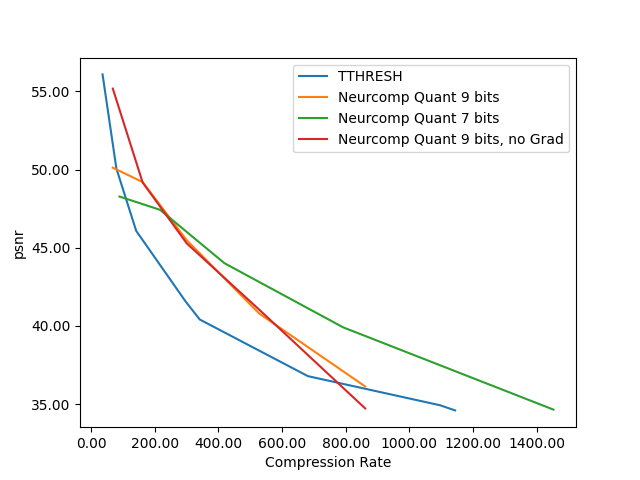
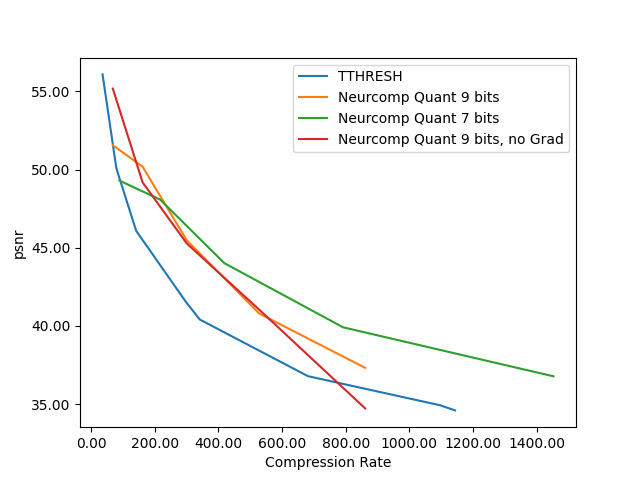
Added correct tthresh comparison plots

diff --git a/visualization/generatecomprPlot.py b/visualization/generatecomprPlot.py
@@ -93,6 +93,39 @@ def QuantVsOrigExperiment():
     filepath = 'plots/'+'test_experiment_QuantizationGain.png'
     plt.savefig(filepath)
 
+def OrigVSSelfImplmentation():
+    Test_OrigPSNR = [47.1365, 39.9855, 33.5493, 30.7486, 28.6885]
+    Test_OrigRMSE = [0.0088, 0.0200, 0.0420, 0.0580, 0.0736]
+    Test_OrigCompRate = [51.11390449650911, 101.7516355633272, 200.52284475075754, 314.8320895522388, 430.2651708312086]
+
+    Test_OrigQuantPSNR = [46.8316, 39.9078, 33.5359, 30.7470, 28.6870]
+    Test_OrigQuantRMSE = [0.0091, 0.0202, 0.0421, 0.0580, 0.0736]
+    Test_OrigQuantCompRate = [126.4459326558329, 196.49224947238193, 272.3586256985494, 319.03580290677064, 347.39198682483726]
+
+    mhd_p_OrigPSNR = [50.3264, 45.6230, 40.9, 37.0811]
+    mhd_p_OrigRMSE = [0.0061, 0.0105, 0.018, 0.0280]
+    mhd_p_OrigCompRate = [50.15024165693788, 100.28107215646905, 201.45275729264114, 411.1016760053553]
+
+    mhd_p_OrigQuantPSNR = [50.1650, 45.5244, 40.8, 37.0627]
+    mhd_p_OrigQuantRMSE = [0.0062, 0.0106, 0.019, 0.0280]
+    mhd_p_OrigQuantompRate = [162.12500091664407, 300.5437614699685, 528.4184612442936, 860.7999896172665]
+
+    Test_MyPSNR = [46.993186950683594, 40.01081466674805, 33.18212890625, 30.62228775024414, 28.301376342773438]
+    Test_MyRMSE = [0.008940679021179676, 0.01997510902583599, 0.04384535178542137, 0.058872923254966736, 0.07690615952014923]
+    Test_MyCompRate = [51.11390449650911, 101.7516355633272, 200.52284475075754, 314.8320895522388, 430.2651708312086]
+
+    Test_MyQuantPSNR = [46.6522, 39.9328, 33.1472, 29.6226, 28.3016]
+    Test_MyQuantRMSE = [0.0093, 0.0202, 0.0440, 0.0661, 0.0769]
+    Test_MyQuantCompRate = [126.4459326558329, 196.49224947238193, 272.3586256985494, 319.03580290677064, 347.39198682483726]
+
+    mhd_p_MyPSNR = [50.343326568603516, 45.57869338989258, 40.84169387817383, 37.342159271240234]
+    mhd_p_MyRMSE = [0.0060794418677687645, 0.010521928779780865, 0.018152866512537003, 0.027159517630934715]
+    mhd_p_MyCompRate = [50.15024165693788, 100.28107215646905, 201.45275729264114, 411.1016760053553]
+
+    mhd_p_MyQuantPSNR = [50.1753, 45.47528076171875, 40.79093551635742, 37.3199]
+    mhd_p_MyQuantRMSE = [0.0062, 0.010647944174706936, 0.018259266391396523, 0.0272]
+    mhd_p_MyQuantCompRate = [162.14521452145215, 300.6132327746404, 528.6332552245229, 861.3701298701299]
+
 
 
 def rmseTTHRESHExperiment():
@@ -127,12 +160,12 @@ def rmseTTHRESHExperiment():
     NeurcompQuantRMSEEjecta7 = [0.00587, 0.00777, 0.00926, 0.011737, 0.0160, 0.021582484245300293]  # M: last entry makes no sense
     NeurcompQuantCompRateEjecta7 = [88.87720143985888, 216.8677701440639, 423.9186385860296, 801.3381415231772, 1137.0144014096438, 1426.4520681885813]
 
-    NeurcompQuantPSNRmhd_p9 = [50.1259, 49.2033, 45.4834, 40.7906, 36.1277]
-    NeurcompQuantRMSEmhd_9 = [0.0062, 0.0069, 0.0106, 0.0183, 0.0312]
+    NeurcompQuantPSNRmhd_p9 = [51.56679153442383, 50.18495559692383, 45.4834, 40.7906, 37.31993103027344]
+    NeurcompQuantRMSEmhd_9 = [0.005280687473714352, 0.0061913058161735535, 0.0106, 0.0183, 0.02722911536693573]
     NeurcompQuantCompRatemhd_9 = [ 68.412068076328, 162.14521452145215, 300.6132327746404, 528.6332552245229, 861.3701298701299]
 
-    NeurcompQuantPSNRmhd_p7 = [48.2795, 47.4276, 44.0162, 39.9114, 34.6474]
-    NeurcompQuantRMSEmhd_7 = [0.0077, 0.0085, 0.0126, 0.0202, 0.0370]
+    NeurcompQuantPSNRmhd_p7 = [49.3000, 48.0839, 44.0162, 39.9114, 36.7788]
+    NeurcompQuantRMSEmhd_7 = [0.0069, 0.0079, 0.0126, 0.0202, 0.0290]
     NeurcompQuantCompRatemhd_7 = [89.26451706678941, 217.03086347037342, 418.9702222278372, 791.9840947627349, 1452.7861742673151]
 
     NeurcompQuantPSNRmhd_p_noGrad9 = [55.1833, 49.1794, 45.2835, 41.0376, 34.7223]
@@ -149,7 +182,8 @@ def rmseTTHRESHExperiment():
     tthreshRMSEmhd_p = [0.003135982353123946, 0.006271169994000251, 0.009925990818509228, 0.016716544001841114, 0.019070782289479934, 0.028947138499412675, 0.035873616272853986, 0.03725399491978439]
     tthreshCompRatemhd_p = [36.145, 79.6552, 141.825, 297.357, 341.542, 681.394, 1096.76, 1143.66]
 
-    param = 'rmse'#'psnr', 'rmse'
+    param = 'psnr'#'psnr', 'rmse'
+    datset='mhd_p'
 
     mlClient = MlflowClient()
     expList = mlClient.search_experiments()
@@ -166,23 +200,25 @@ def rmseTTHRESHExperiment():
         realCompRates.append(float(bestrun.data.params['compression_ratio']))
 
     #plt.plot(realCompRates, allRunsData, label='Neurcomp no Quant')
-    plt.plot(tthreshCompRateEjeta, tthreshRMSEEjecta, label='TTHRESH')
-    plt.plot(NeurcompQuantCompRateEjecta9, NeurcompQuantRMSEEjecta9, label='Neurcomp Quant 9 bits')
-    plt.plot(NeurcompQuantCompRateEjecta7, NeurcompQuantRMSEEjecta7, label='Neurcomp Quant 7 bits')
+    #plt.plot(tthreshCompRateEjeta, tthreshRMSEEjecta, label='TTHRESH')
+    #plt.plot(NeurcompQuantCompRateEjecta9, NeurcompQuantRMSEEjecta9, label='Neurcomp Quant 9 bits')
+    #plt.plot(NeurcompQuantCompRateEjecta7, NeurcompQuantRMSEEjecta7, label='Neurcomp Quant 7 bits')
 
     #plt.plot(tthreshCompRateEjeta, tthreshPSNREjecta, label='TTHRESH')
     #plt.plot(NeurcompQuantCompRateEjecta9, NeurcompQuantPSNREjecta9, label='Neurcomp Quant 9 bits')
     #plt.plot(NeurcompQuantCompRateEjecta7, NeurcompQuantPSNREjecta7, label='Neurcomp Quant 7 bits')
 
-    #plt.plot(tthreshCompRatemhd_p, tthreshPSNRmhd_p, label='TTHRESH')
-    #plt.plot(NeurcompQuantCompRatemhd_9, NeurcompQuantPSNRmhd_p9, label='Neurcomp Quant 9 bits')
-    #plt.plot(NeurcompQuantCompRatemhd_7, NeurcompQuantPSNRmhd_p7, label='Neurcomp Quant 7 bits')
-    #plt.plot(NeurcompQuantCompRatemhd_noGrad9, NeurcompQuantPSNRmhd_p_noGrad9, label='Neurcomp Quant 9 bits, no Grad')
+    plt.plot(tthreshCompRatemhd_p, tthreshPSNRmhd_p, label='TTHRESH')
+    plt.plot(NeurcompQuantCompRatemhd_9, NeurcompQuantPSNRmhd_p9, label='Neurcomp Quant 9 bits')
+    plt.plot(NeurcompQuantCompRatemhd_7, NeurcompQuantPSNRmhd_p7, label='Neurcomp Quant 7 bits')
+    plt.plot(NeurcompQuantCompRatemhd_noGrad9, NeurcompQuantPSNRmhd_p_noGrad9, label='Neurcomp Quant 9 bits, no Grad')
 
     #plt.plot(tthreshCompRatemhd_p, tthreshRMSEmhd_p, label='TTHRESH')
     #plt.plot(NeurcompQuantCompRatemhd_9, NeurcompQuantRMSEmhd_9, label='Neurcomp Quant 9 bits')
     #plt.plot(NeurcompQuantCompRatemhd_7, NeurcompQuantRMSEmhd_7, label='Neurcomp Quant 7 bits')
     #plt.plot(NeurcompQuantCompRatemhd_noGrad9, NeurcompQuantRMSEmhd_noGrad9, label='Neurcomp Quant 9 bits, no Grad')
+
+    #plt.axhline(y=0.1753335443571432, color='y', linestyle='--')
 
     plt.gca().yaxis.set_major_formatter(FormatStrFormatter('%.2f'))
     plt.gca().xaxis.set_major_formatter(FormatStrFormatter('%.2f'))
@@ -190,7 +226,7 @@ def rmseTTHRESHExperiment():
     plt.ylabel(param)
     plt.legend()
     
-    filepath = 'plots/'+'Ejecta_TTHRESH_'+param+'.png'
+    filepath = 'plots/'+datset+'_TTHRESH_'+param+'.png'
     plt.savefig(filepath)
 
 def paramExperiment():
